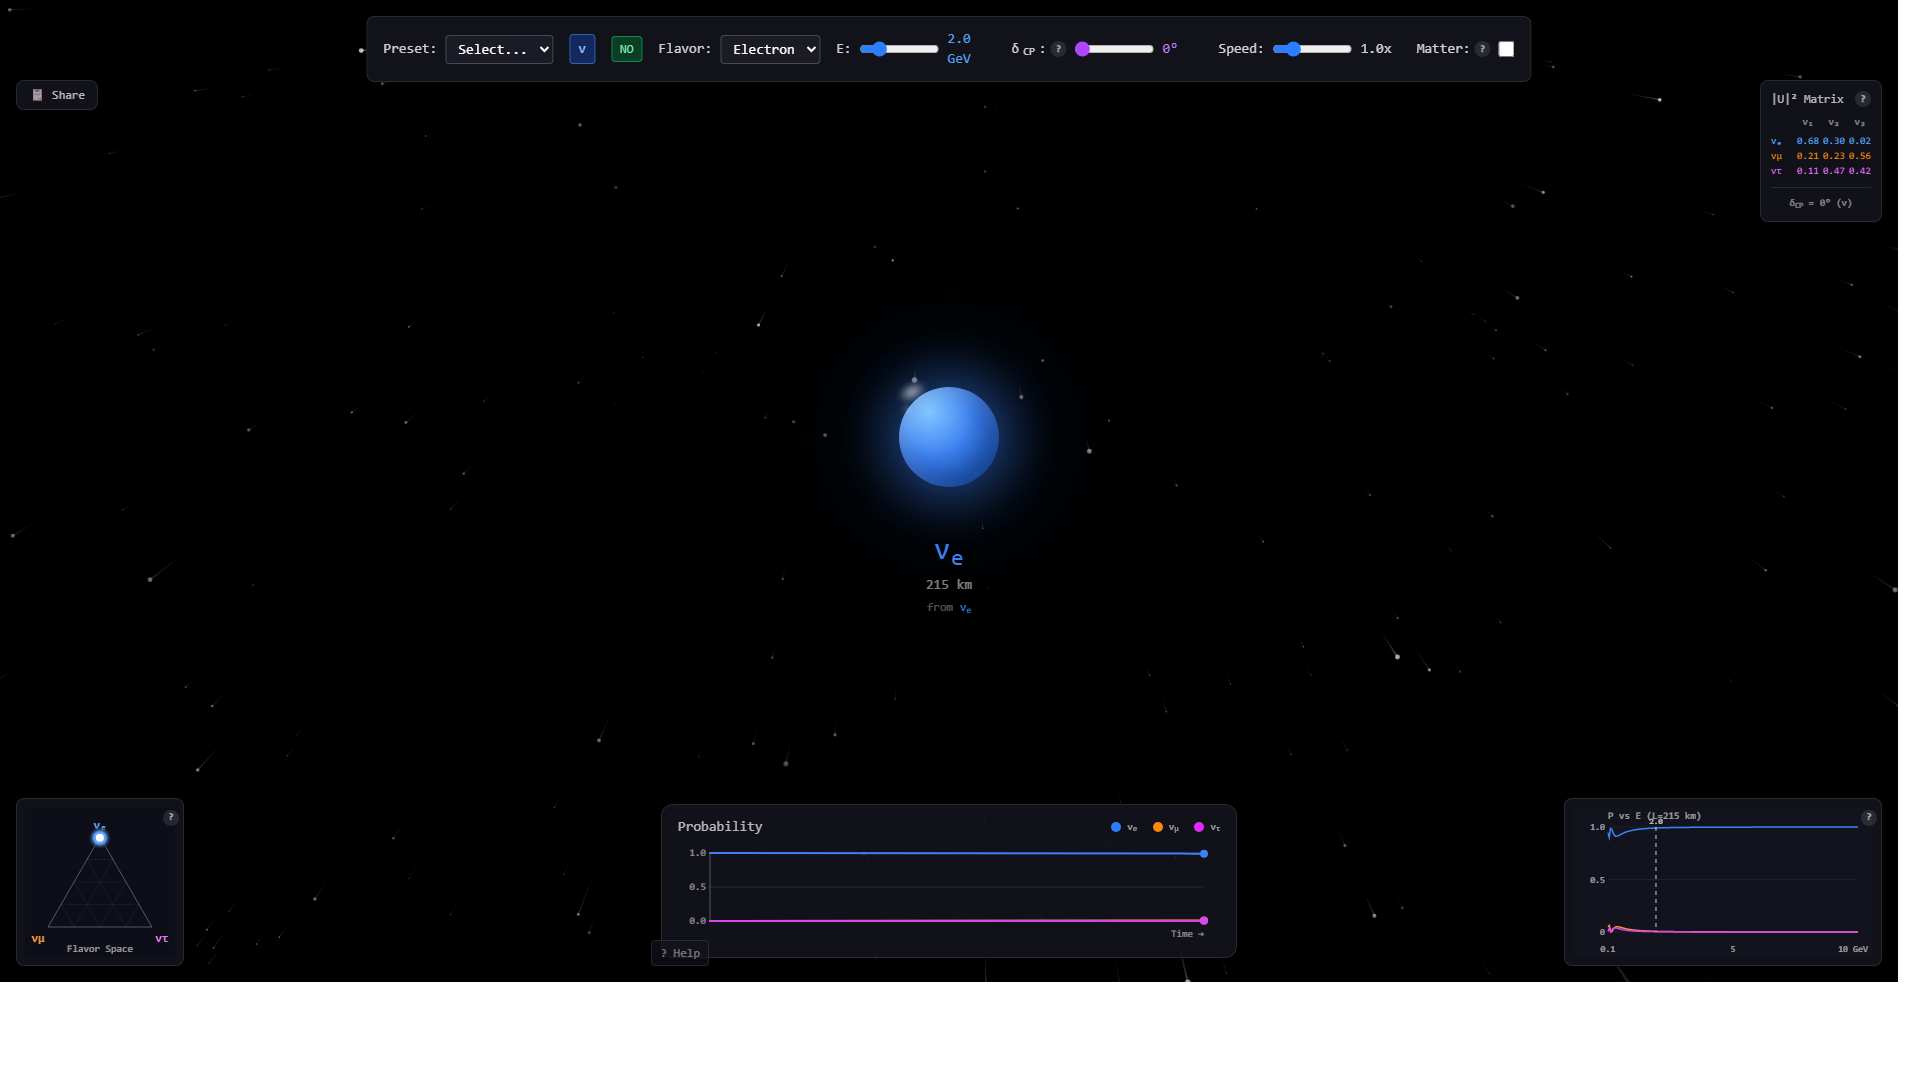
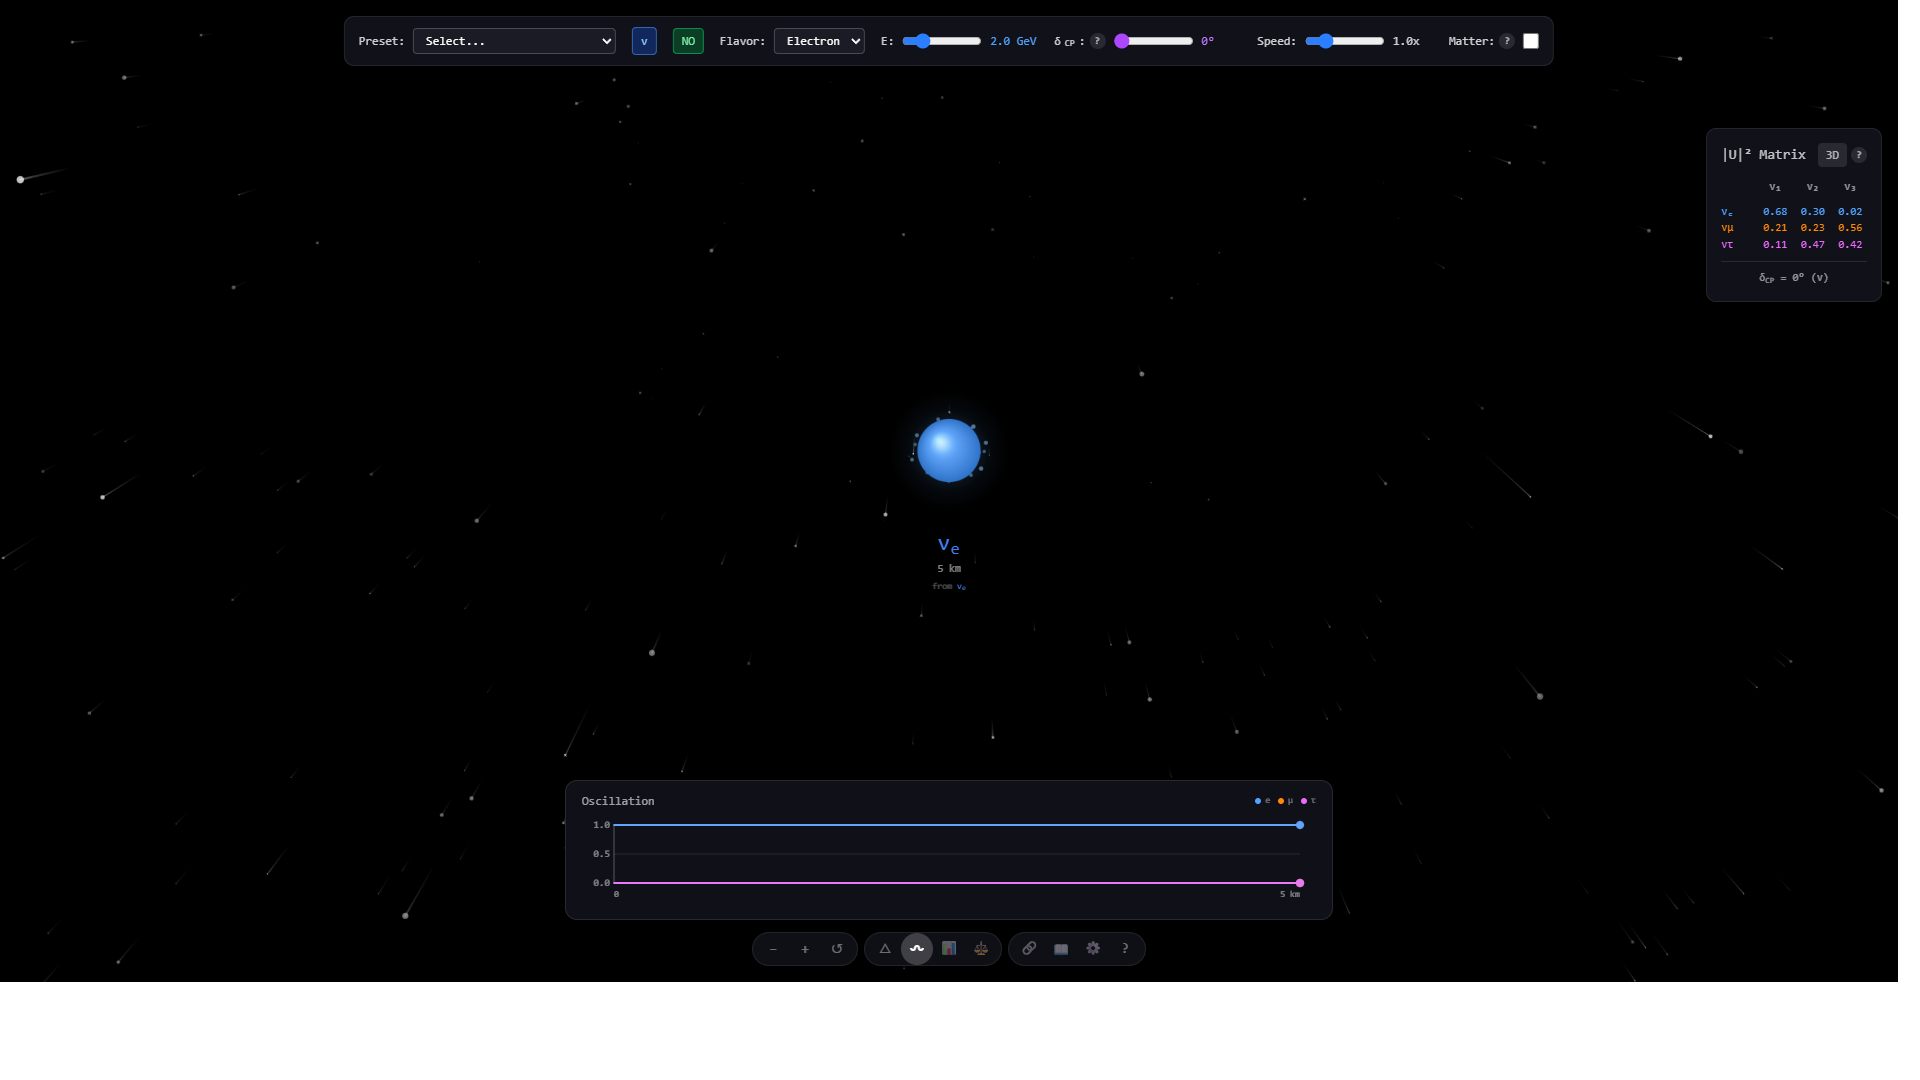
docs: complete README rewrite + new screenshot
- Fresh screenshot with DUNE preset, matter effects enabled
- Rewrote README in cleaner style
- Added physics explanation section
- Centered screenshot with proper sizing
- Streamlined feature list

diff --git a/README.md b/README.md
@@ -1,69 +1,57 @@
 # Imagining the Neutrino
 
 [![License: MIT](https://img.shields.io/badge/License-MIT-blue.svg)](LICENSE)
-[![Build and Deploy](https://github.com/planckeon/itn/actions/workflows/deploy.yml/badge.svg)](https://github.com/planckeon/itn/actions/workflows/deploy.yml)
 [![Tests](https://img.shields.io/badge/tests-166%20passing-brightgreen)](https://github.com/planckeon/itn)
+[![Demo](https://img.shields.io/badge/demo-live-blue)](https://planckeon.github.io/itn/)
 
 **[▶ Launch Demo](https://planckeon.github.io/itn/)**
 
-![Screenshot](docs/screenshot.png)
+<p align="center">
+  <img src="docs/screenshot.png" alt="Imagining the Neutrino" width="800">
+</p>
 
-An interactive visualization of 3-flavor neutrino oscillations. Watch a neutrino fly through space as its flavor changes, with real-time probability calculations.
+Watch a neutrino fly through space as its flavor oscillates in real-time.
 
-Built with React + TypeScript + Zig WASM. A [Planckeon Labs](https://github.com/planckeon) project.
+The physics engine is [nufast](https://github.com/planckeon/nufast) compiled to WebAssembly—13 KB, 20 million calculations per second, the same algorithm used by T2K and JUNO.
+
+---
+
+## What It Does
+
+A neutrino created as νμ doesn't stay νμ. As it travels, quantum mechanics mixes its flavor—sometimes it's νe, sometimes ντ, usually some superposition of all three. This is neutrino oscillation, and it's how we know neutrinos have mass.
+
+This visualization lets you see that happen. The sphere's color reflects the flavor probabilities. Red = electron, green = muon, blue = tau. The plots show probability vs distance, energy spectrum, and the ternary flavor triangle.
+
+---
 
 ## Features
 
-### Visualization
-- **Immersive 3D Starfield** — Fly through space with the neutrino
-- **Interactive Camera** — Drag to rotate your view (mouse or touch)
-- **Color-Evolving Sphere** — The neutrino's color reflects its flavor probabilities
-- **MSW Resonance Glow** — Golden ring when at matter resonance energy
+**Visualization**
+- 3D starfield with camera rotation (drag to orbit)
+- Color-blending neutrino sphere
+- MSW resonance glow (golden ring at resonance energy)
+- 60fps canvas rendering
 
-### Analysis Plots
-- **Probability vs Distance** — P(νₑ), P(νμ), P(ντ) over time with oscillation length markers
-- **Ternary Flavor Triangle** — VISOS-style flavor space trajectory
-- **Energy Spectrum** — P vs E at current distance (bottom right)
-- **PMNS Matrix** — |U|² mixing matrix display (top right)
+**Physics**
+- 11 experiment presets: DUNE, T2K, NOvA, Hyper-K, KamLAND, JUNO, IceCube...
+- δCP slider (CP violation phase)
+- Antineutrino mode
+- Normal/Inverted mass ordering
+- Matter effects with PREM Earth model
 
-### Physics Controls
-- **Experiment Presets** — 11 experiments: T2K, NOvA, DUNE, Hyper-K, KamLAND, Daya Bay, JUNO, Double Chooz, Super-K, IceCube, Solar
-- **δCP Slider** — CP violation phase (0-360°)
-- **ν/ν̄ Toggle** — Neutrino/antineutrino mode
-- **NO/IO Toggle** — Normal/Inverted mass ordering
-- **Matter Effect** — Enable MSW effect with adjustable density
-- **Energy & Speed** — Continuous sliders
+**Analysis**
+- Probability vs distance plot with oscillation length markers
+- Ternary flavor triangle (VISOS-style)
+- Energy spectrum at current baseline
+- PMNS mixing matrix display
 
-### Educational
-- **Learn More Panel** — 8 sections covering neutrino physics with LaTeX formulas
-- **Settings Panel** — Language selection, density presets
-- **3D PMNS Matrix** — Interactive rotatable visualization
-- **KaTeX Math Rendering** — Beautiful LaTeX equations
-- **Internationalization** — EN, ES, JA, ZH, HI, FR, DE
+**Polish**
+- Keyboard shortcuts (press `?`)
+- URL state sharing
+- 7 languages
+- Mobile responsive
 
-### Quality of Life
-- **Keyboard Shortcuts** — See below (press `?` for help)
-- **Help Modal** — Press `?` for shortcuts reference
-- **URL Sharing** — Share exact configurations via URL
-- **Info Tooltips** — Hover over (?) for physics explanations
-- **Mobile Responsive** — Full touch support with compact UI
-
-## URL Sharing
-
-Share your exact simulation configuration via URL hash:
-
-```
-https://planckeon.github.io/itn/#e=2.5&f=muon&d=180&m=1&o=inverted
-```
-
-Parameters:
-- `e` — Energy (GeV)
-- `f` — Initial flavor (electron|muon|tau)
-- `d` — δCP (0-360)
-- `a` — Antineutrino mode (1 = on)
-- `m` — Matter effect (1 = on)
-- `o` — Mass ordering (normal|inverted)
-- `p` — Preset name (t2k|nova|dune|kamland)
+---
 
 ## Keyboard Shortcuts
 
@@ -71,115 +59,89 @@ Parameters:
 |-----|--------|
 | `Space` | Play/Pause |
 | `A` | Toggle antineutrino |
-| `M` | Toggle matter effect |
+| `M` | Toggle matter |
 | `N` | Toggle mass ordering |
-| `R` | Reset simulation |
-| `1-4` | Apply presets (T2K, NOvA, DUNE, KamLAND) |
-| `↑/↓` | Adjust energy |
-| `←/→` | Adjust δCP |
+| `1-4` | Presets (T2K, NOvA, DUNE, KamLAND) |
+| `↑/↓` | Energy |
+| `←/→` | δCP |
 | `S` | Copy share URL |
-| `?` | Show help modal |
+| `?` | Help |
 
-## Physics
+---
 
-Powered by [**nufast**](https://github.com/planckeon/nufast) compiled to WebAssembly—the same algorithm used by T2K and JUNO, running at **20 million calculations per second** in your browser.
+## URL Sharing
 
-The WASM binary is **13 KB**. No CDN physics libraries, just math.
+Share exact configurations:
 
-Based on the **NuFast** algorithm ([arXiv:2405.02400](https://arxiv.org/abs/2405.02400)) by P.B. Denton.
+```
+https://planckeon.github.io/itn/#e=2.5&f=muon&d=180&m=1&p=dune
+```
 
-**Parameters (NuFit 5.2):**
+---
+
+## Tech Stack
+
+| What | How |
+|------|-----|
+| UI | React 19 + TypeScript + Tailwind |
+| Build | Vite |
+| Graphics | Canvas 2D @ 60fps |
+| Physics | nufast WASM (Zig → 13 KB) |
+| Math | KaTeX |
+| Tests | Vitest (166 passing) |
+
+---
+
+## The Physics
+
+NuFit 5.2 parameters:
 - θ₁₂ = 33.44°, θ₁₃ = 8.57°, θ₂₃ = 49.2°
 - Δm²₂₁ = 7.42×10⁻⁵ eV²
 - Δm²₃₁ = +2.517×10⁻³ eV² (NO) / −2.498×10⁻³ eV² (IO)
 
-## Tech Stack
+The algorithm is NuFast ([arXiv:2405.02400](https://arxiv.org/abs/2405.02400)) by Denton & Parke. Uses the Eigenvalue-Eigenvector Identity to avoid cubic eigenvalue equations—sub-microsecond per calculation.
 
-| Layer | Tech |
-|-------|------|
-| Framework | React 19 + TypeScript |
-| Build | Vite |
-| Styling | Tailwind CSS |
-| Rendering | Canvas 2D (60fps) |
-| Physics | nufast WASM (Zig → WASM, 13 KB) |
-| Math | KaTeX |
-| State | React Context |
-| Testing | Vitest (166 tests) |
+---
 
 ## Development
 
 ```bash
-npm install      # Install dependencies
-npm run dev      # Dev server at localhost:5173
-npm run build    # Production build
-npm test         # Run tests (166 passing)
+npm install
+npm run dev      # localhost:5173
+npm run build
+npm test         # 166 passing
 ```
 
-## Project Structure
-
-```
-src/
-├── components/
-│   ├── Starfield.tsx          # 3D starfield with camera rotation
-│   ├── NeutrinoSphere.tsx     # Color-blending sphere + MSW glow
-│   ├── ProbabilityPlot.tsx    # P vs L plot with markers
-│   ├── TernaryPlot.tsx        # Flavor triangle
-│   ├── EnergySpectrumPlot.tsx # P vs E spectrum
-│   ├── PMNSMatrix.tsx         # |U|² mixing matrix
-│   ├── PMNSMatrix3D.tsx       # Interactive 3D PMNS view
-│   ├── LearnMorePanel.tsx     # Educational content
-│   ├── SettingsPanel.tsx      # Language & advanced options
-│   ├── TopControlBar.tsx      # All controls
-│   ├── InfoTooltip.tsx        # Physics explanations
-│   └── HelpModal.tsx          # Keyboard shortcuts modal
-├── hooks/
-│   ├── useKeyboardShortcuts.ts
-│   └── useURLState.ts         # URL state sharing
-├── i18n/
-│   ├── translations.ts        # All language strings
-│   └── I18nContext.tsx        # Language provider
-├── context/
-│   └── SimulationContext.tsx  # All state + physics
-├── physics/
-│   ├── nufast.js              # Zig WASM loader
-│   ├── nufast.wasm            # Physics engine (13 KB)
-│   ├── wasmBridge.ts          # WASM interface
-│   ├── prem.ts                # PREM Earth model
-│   └── types.ts               # Interfaces
-└── utils/                     # Helpers
-```
+---
 
 ## Citation
-
-If you use Imagining the Neutrino in your research or teaching, please cite:
 
 ```bibtex
 @software{itn,
   author = {Kataru, Baalateja},
   title = {Imagining the Neutrino: Interactive 3-Flavor Oscillation Visualization},
   year = {2026},
-  publisher = {GitHub},
   url = {https://github.com/planckeon/itn}
 }
 ```
 
-The physics engine is based on:
+Physics engine:
 
 ```bibtex
 @article{Denton:2024xzk,
   author = {Denton, Peter B. and Parke, Stephen J.},
-  title = "{NuFast: Fast and Accurate Neutrino Oscillation Probabilities}",
+  title = "{NuFast}",
   eprint = "2405.02400",
-  archivePrefix = "arXiv",
-  primaryClass = "hep-ph",
   year = "2024"
 }
 ```
 
+---
+
 ## License
 
-MIT — see [LICENSE](LICENSE)
+MIT
 
-## Changelog
+---
 
-See [CHANGELOG.md](CHANGELOG.md) for release history.
+*A [Planckeon Labs](https://github.com/planckeon) project.*
